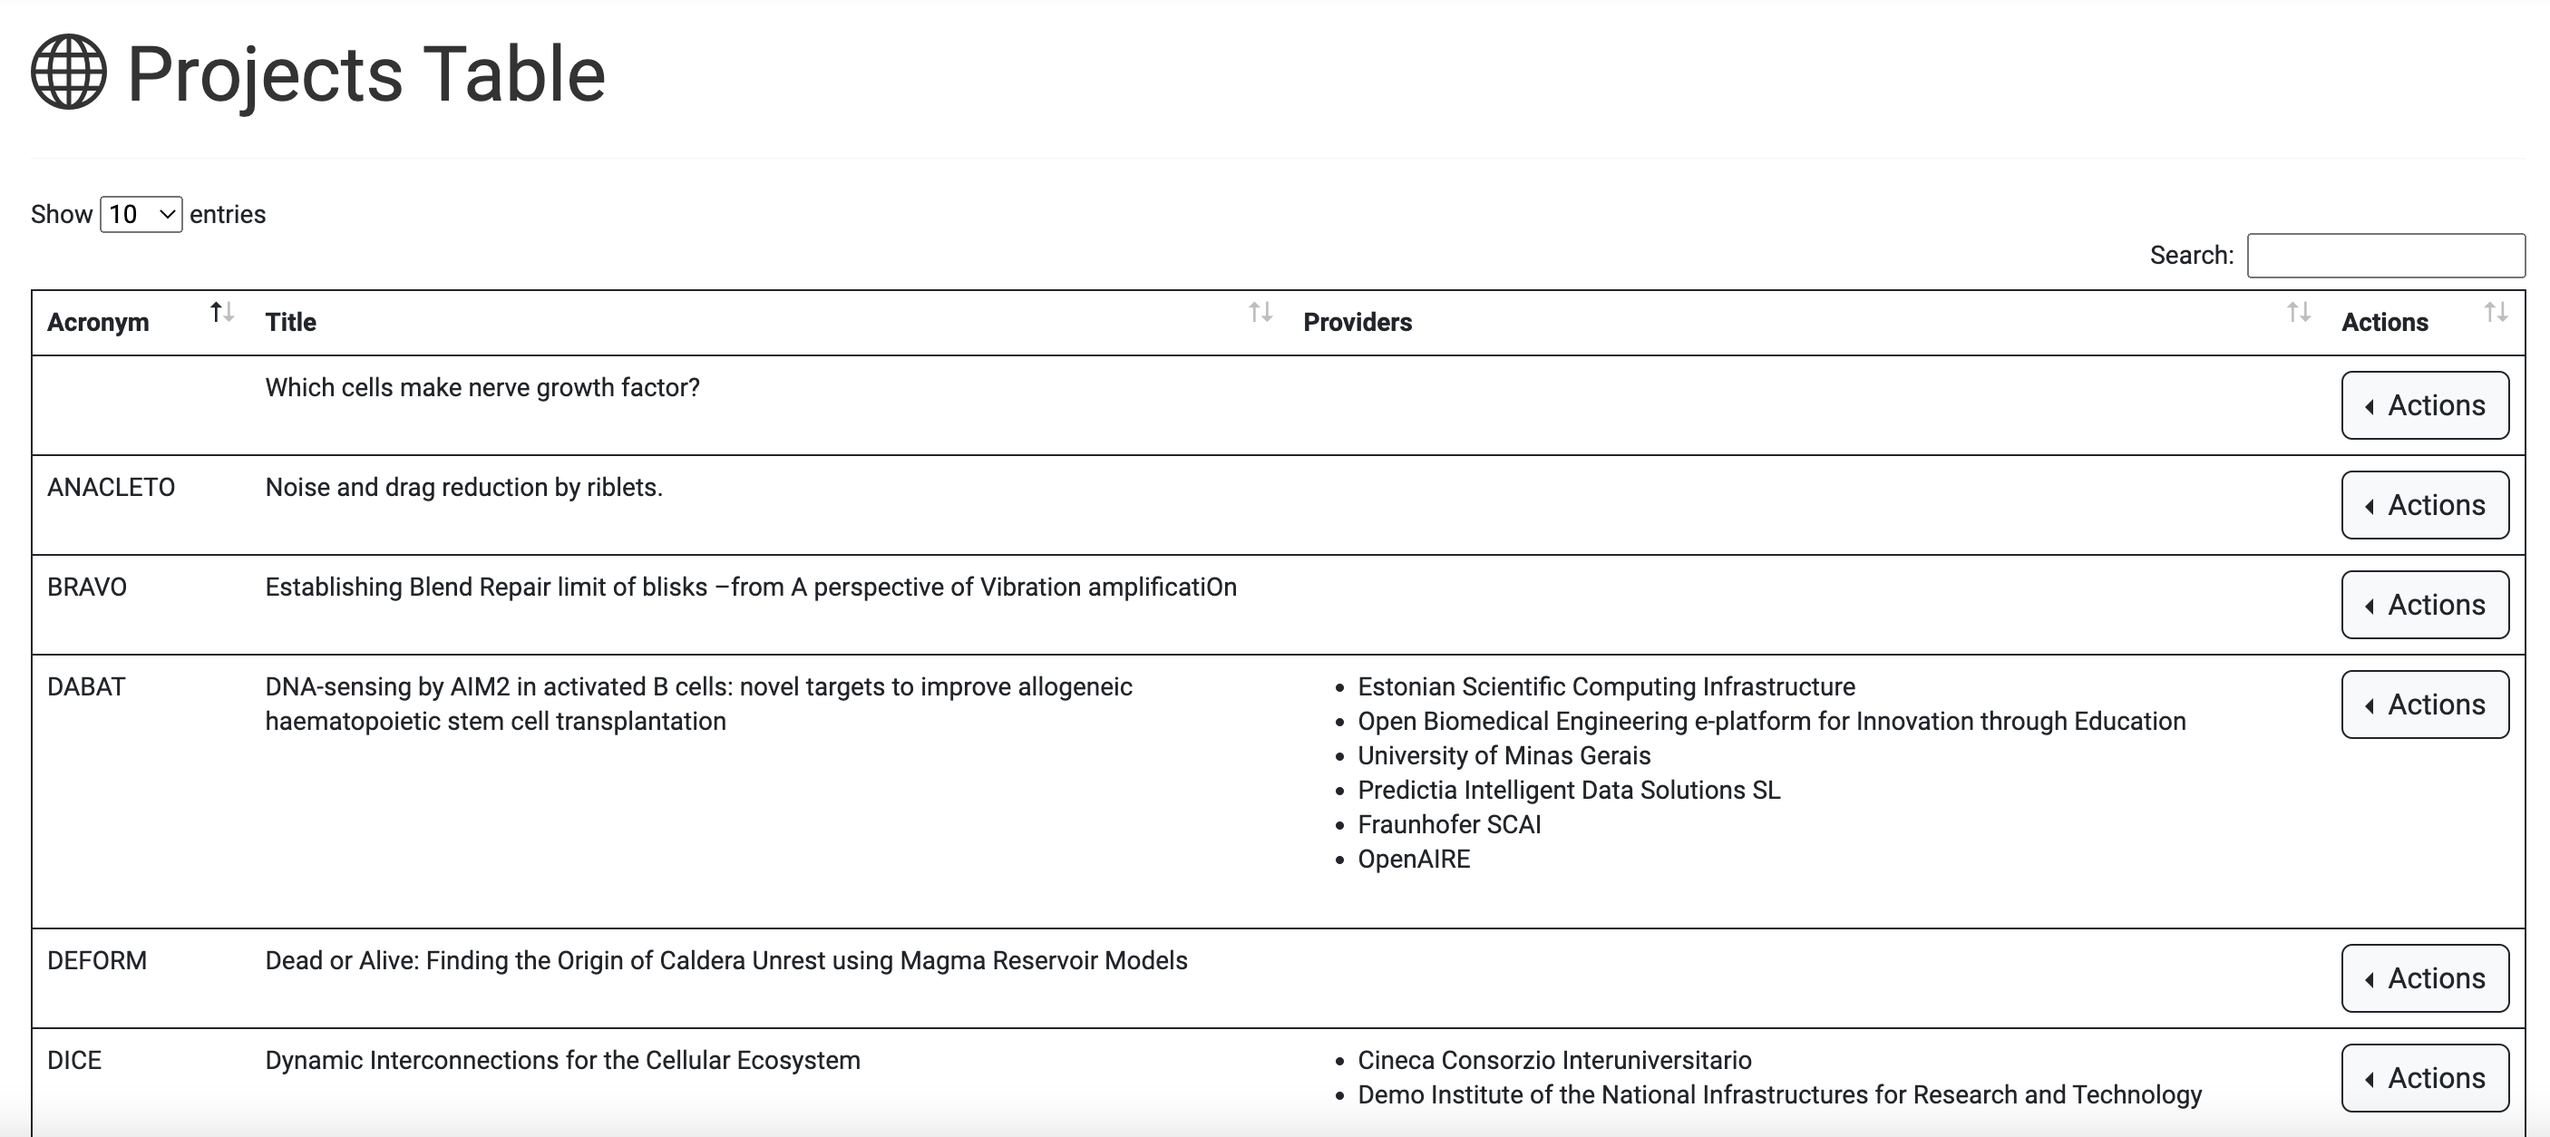
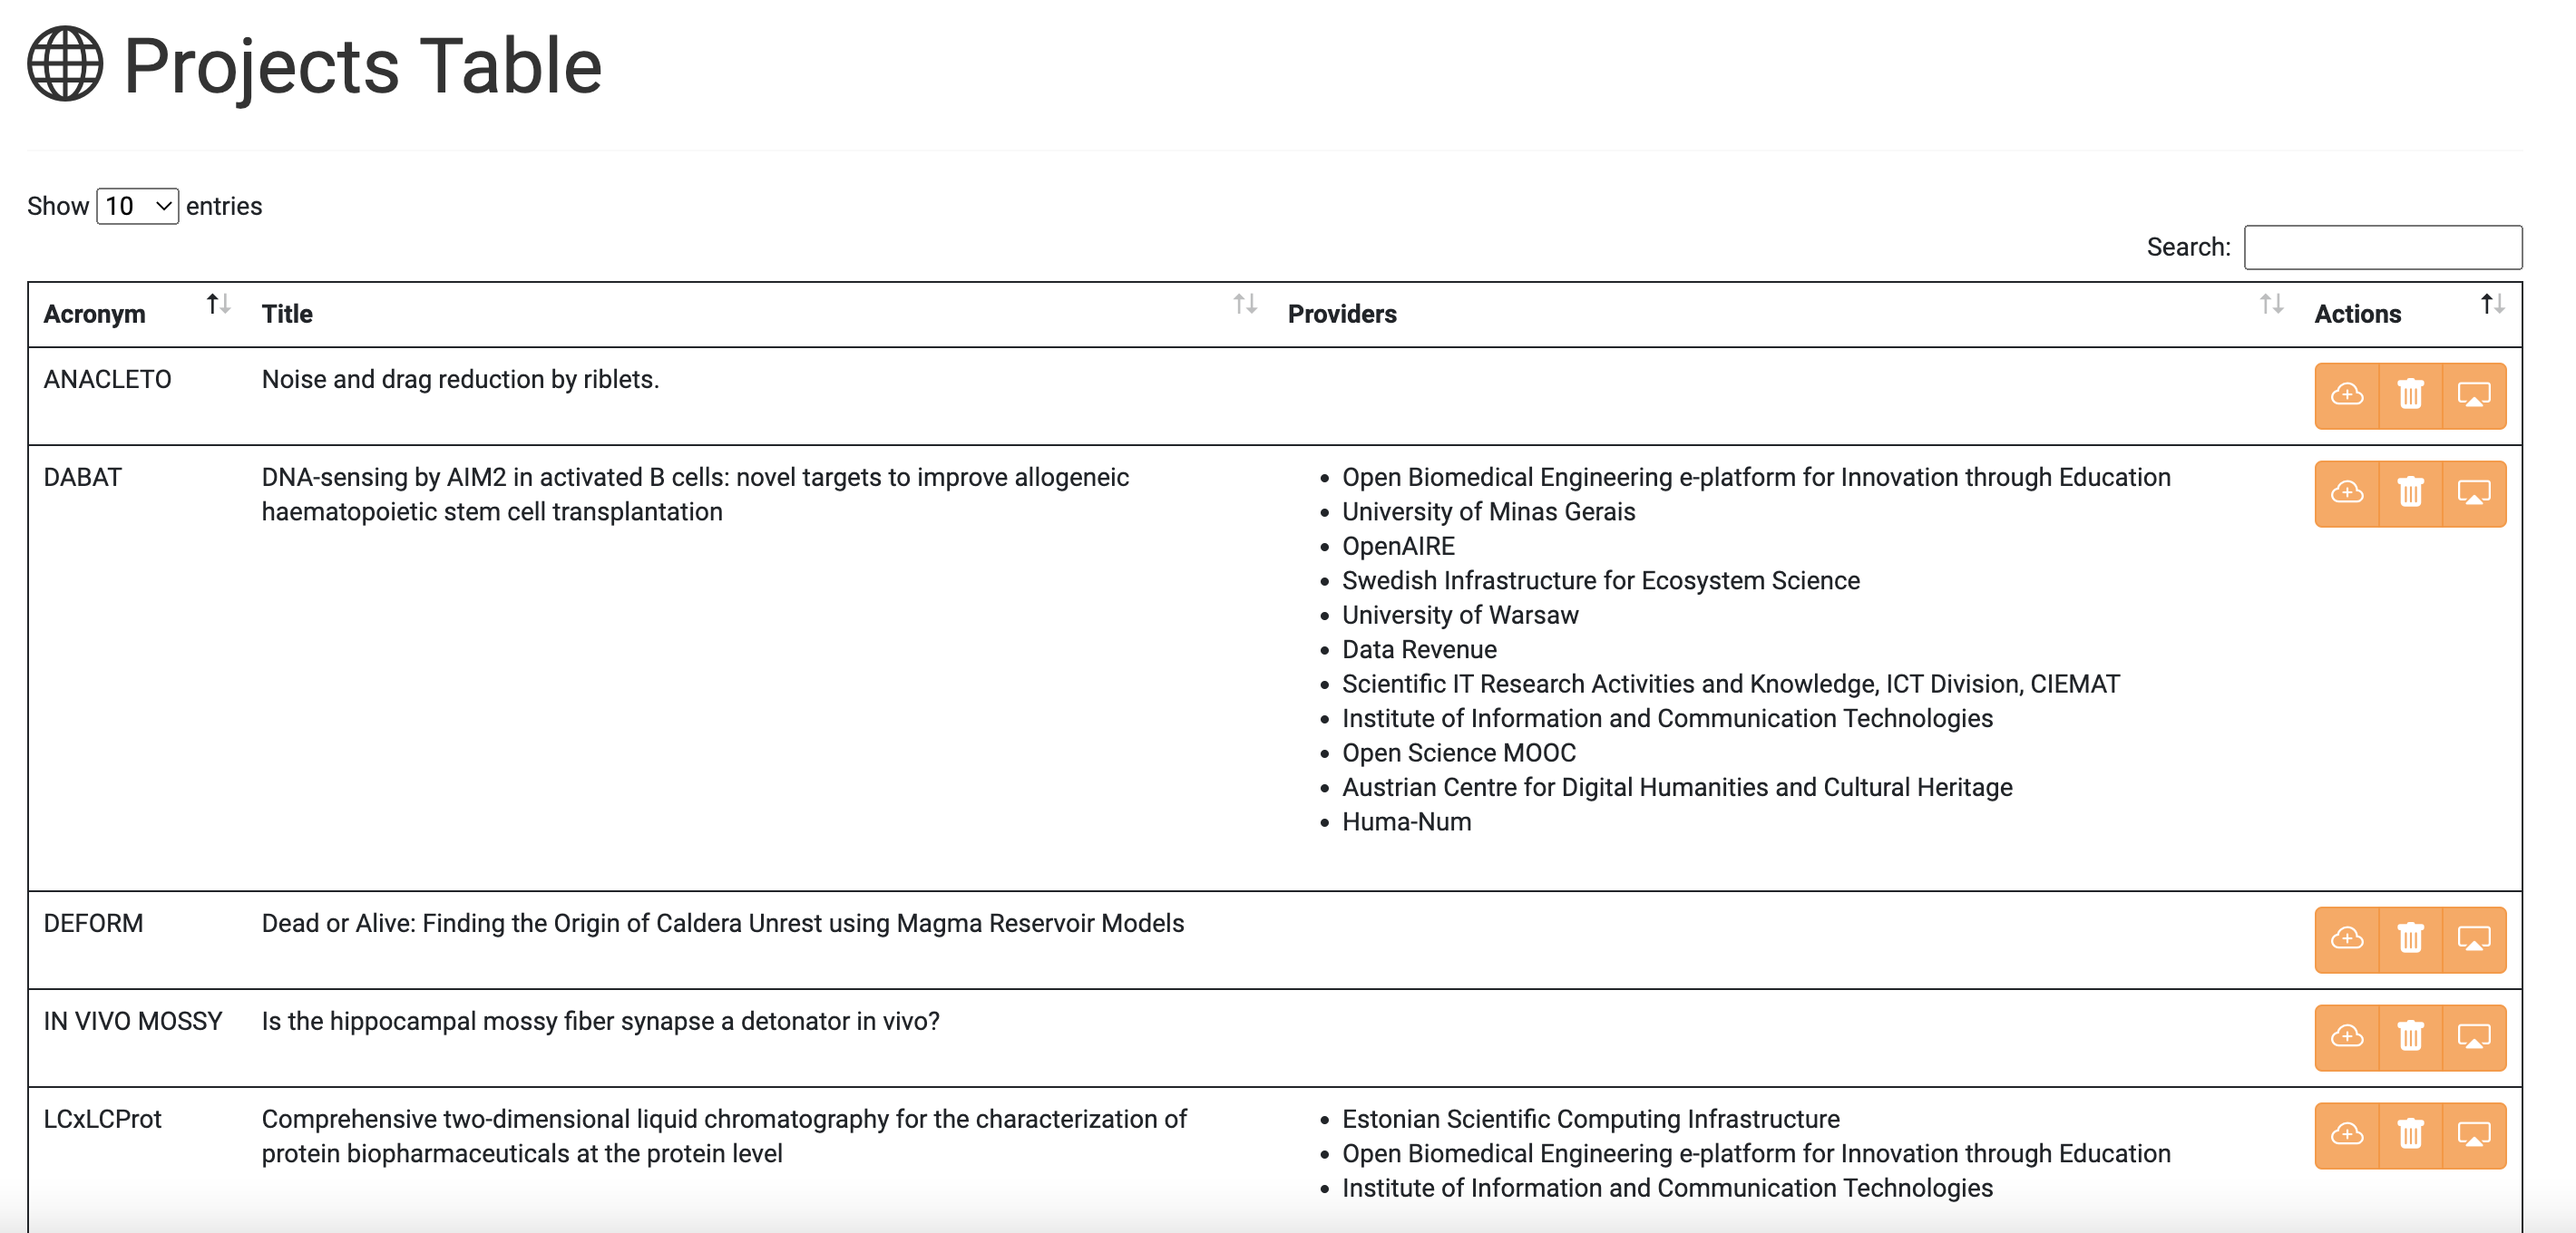
Manage Projects UI Doc
We have documented all the client's actions upon Project Entity
through the Accounting User Interface.

ACC-180

diff --git a/website/docs/guides/ui_actions/project.md b/website/docs/guides/ui_actions/project.md
@@ -16,15 +16,11 @@ Then, all the aforementioned Projects are displayed.
 
 ### Associate Providers with a specific Project
 
-Click the `Actions` button on a Project you want to associate a Provider with.
+Click the highlighted button on a Project you want to associate a Provider with.
 
 ![](assets/project/associate_actions.png)
 
-In the pop-up menu, choose `Associates a new Provider`.
-
-![](assets/project/associate_popup.png)
-
-Select your preferred Provider from the drop-down list and click the `Submit` button.
+Select your preferred Providers from the drop-down list and click the `Submit` button.
 
 ![](assets/project/associate_submit.png)
 
@@ -34,13 +30,9 @@ If the operation is completed without issues, the following message is displayed
 
 ### Dissociate Providers from a specific Project
 
-Click the `Actions` button on a Project you want to dissociate one or more Providers from.
+Click the highlighted button on a Project you want to dissociate one or more Providers from.
 
-![](assets/project/associate_actions.png)
-
-In the pop-up menu, choose `Dissociates Provider(s)`.
-
-![](assets/project/dissociate_popup.png)
+![](assets/project/dissociate_actions.png)
 
 Select one or more Providers you want to dissociate from the Project and click the `Submit` button.
 
@@ -48,4 +40,38 @@ Select one or more Providers you want to dissociate from the Project and click t
 
 If the operation is completed without issues, the following message is displayed.
 
-![](assets/project/associate_message.png)
+![](assets/project/dissociate_message.png)
+
+### Collect Metrics from specific Project
+
+You can collect all Metrics under a specific Project by clicking on the highlighted button.
+
+![](assets/project/collect_metrics.png)
+
+Then, the assigned Metrics are displayed.
+
+![](assets/project/view_metrics.png)
+
+### Manage Project Metrics
+
+By selecting the highlighted button, the Project Metrics tab is displayed. You can manage all Project Metrics and create new ones in this tab.
+
+![](assets/project/project_metrics.png)
+
+#### Add a new Metric 
+
+Click the `Add Metric` button to insert a new Metric to the selected Project.
+
+![](assets/project/add_metric.png)
+
+#### Update an existing Metric
+
+Click the highlighted button on a Metric you want to edit.
+
+![](assets/project/update_metric.png)
+
+#### Delete an existing Metric
+
+Click the highlighted button on a Metric you want to delete.
+
+![](assets/project/delete_metric.png)

diff --git a/website/docs/guides/setting_up_a_project.md b/website/docs/guides/setting_up_a_project.md
@@ -80,12 +80,12 @@ Therefore, you can either create a new Metric Definition or use an existing one.
 
 :::
 
-### Step 3: Put Metrics in an Installation
+### Step 3: Add Metrics
 
-:::info Choose your preferred way
+:::info Add Metrics to a particular Project
 
 <Tabs>
-  <TabItem value="ui" label="User Interface">It's currently under development.</TabItem>
+  <TabItem value="ui" label="User Interface">To perform this action via the website, please follow the provided <a href="https://argoeu.github.io/argo-accounting/docs/guides/ui_actions/project#manage-project-metrics">instructions</a>.</TabItem>
   <TabItem value="http" label="HTTP Request">To syntax the HTTP request, please visit the corresponding <a href="https://argoeu.github.io/argo-accounting/docs/api/metric#post---create-a-new-metric">document</a>.</TabItem>
 </Tabs>
 
